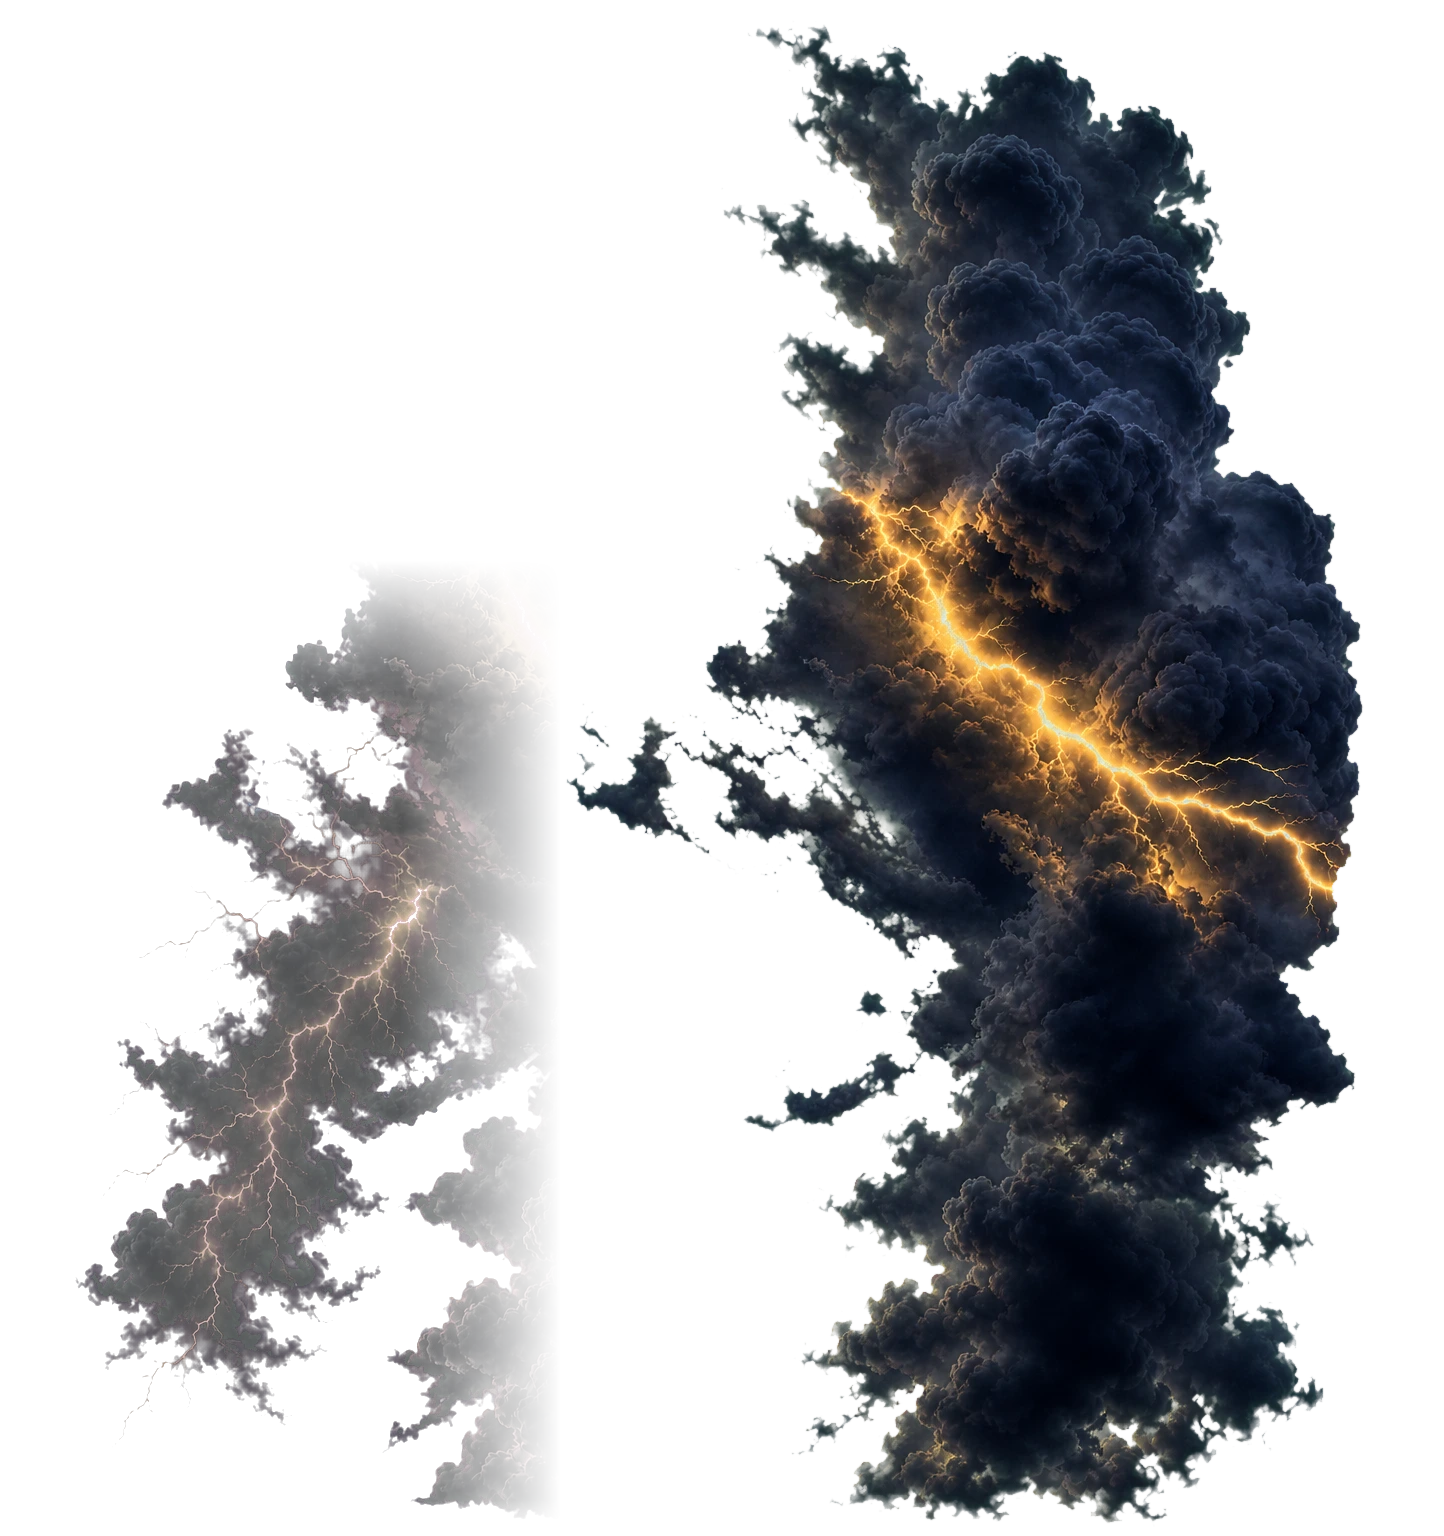
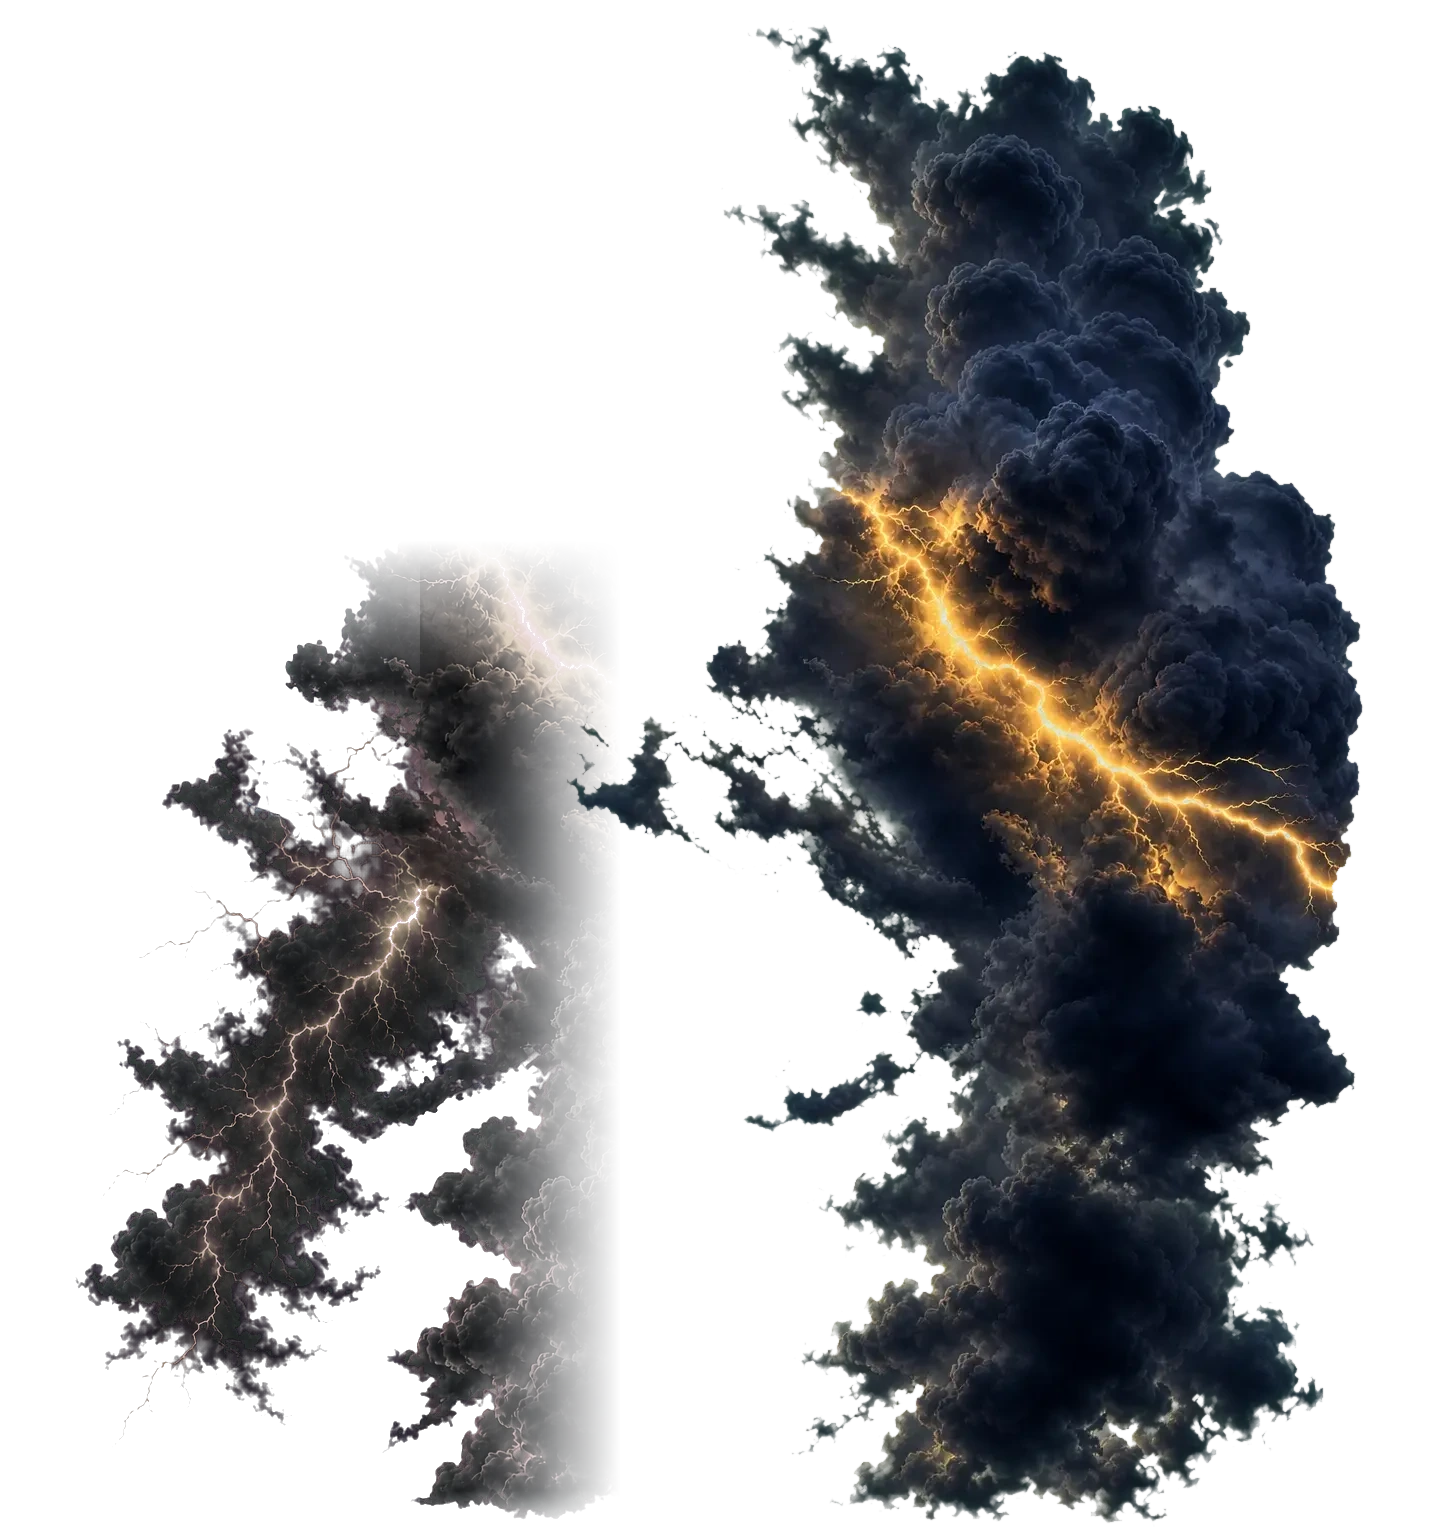
improvements to on fire card

Changed region(s): [[0.0623, 0.3438, 0.4363, 1.0]]

diff --git a/src/features/rating/components/storm/STORM_MASTER_SPEC.md b/src/features/rating/components/storm/STORM_MASTER_SPEC.md
@@ -16,8 +16,9 @@
 
 - Eén samenhangende, donkere, volumetrische cumulonimbus.
 - Grootste massa in de bovenste en rechterhelft van het canvas.
-- Aan de linkerkant een zachte, rafelige rookaanloop; geen rij herkenbare
-  cirkels of losse bolwolken.
+- Aan de linkerkant een compacte, rafelige secundaire rook- en wolkmassa
+  vanaf het midden tot rond de onderste goudvin; geen rij herkenbare cirkels
+  of losse bolwolken.
 - Donkere blauwgrijze kernen met overlappende schalen en diepte.
 - Goud-wit lokaal randlicht rond de ontlading; de rest blijft donker en
   contrastrijk.
@@ -28,8 +29,9 @@
 Bij de huidige browsertransform vult het dichte interne deel circa 35–45%
 van de kaartbreedte, loopt de kolom circa 110% van de kaarthoogte door en
 eindigt de transparant uitlopende buitenrand circa 26% voorbij rechts.
-Het zwaartepunt ligt rechtsboven/rechtsmidden; linksonder blijft leeg of
-hooguit zeer subtiel.
+Het zwaartepunt ligt rechtsboven/rechtsmidden. Links blijft de ratingzone
+open, maar vanaf circa halverwege loopt een duidelijk lichtere secundaire
+vertakking door een donkere lage wolkmassa naar buiten en naar beneden.
 
 ## Bliksem
 
@@ -67,3 +69,11 @@ bolt. Use a flat `#00ff00` chroma-key background for local background
 removal. No card, frame, avatar, text, rain, debris, straight edges,
 geometric cropping, repeated circular cloud row, separate floating cloud
 islands, watermark or second main lightning.
+
+De extra linker canvasstrook is daarna als gerichte edit gegenereerd en
+onder de ongewijzigde rechterbron gemonteerd. De edit hield de bovenlinker
+ratingzone vrij, plaatste de massa hoofdzakelijk in `x 6–34% / y 52–84%`
+van het oorspronkelijke 2:3-canvas en gebruikte één duidelijk dunnere,
+zwakkere secundaire bliksemvertakking. Bij het monteren zijn de
+chroma-keyrand lokaal ontgroend, de kleurverzadiging teruggebracht en de
+alpha aan de boven-, rechter- en onderzijde zacht uitgemaskeerd.
